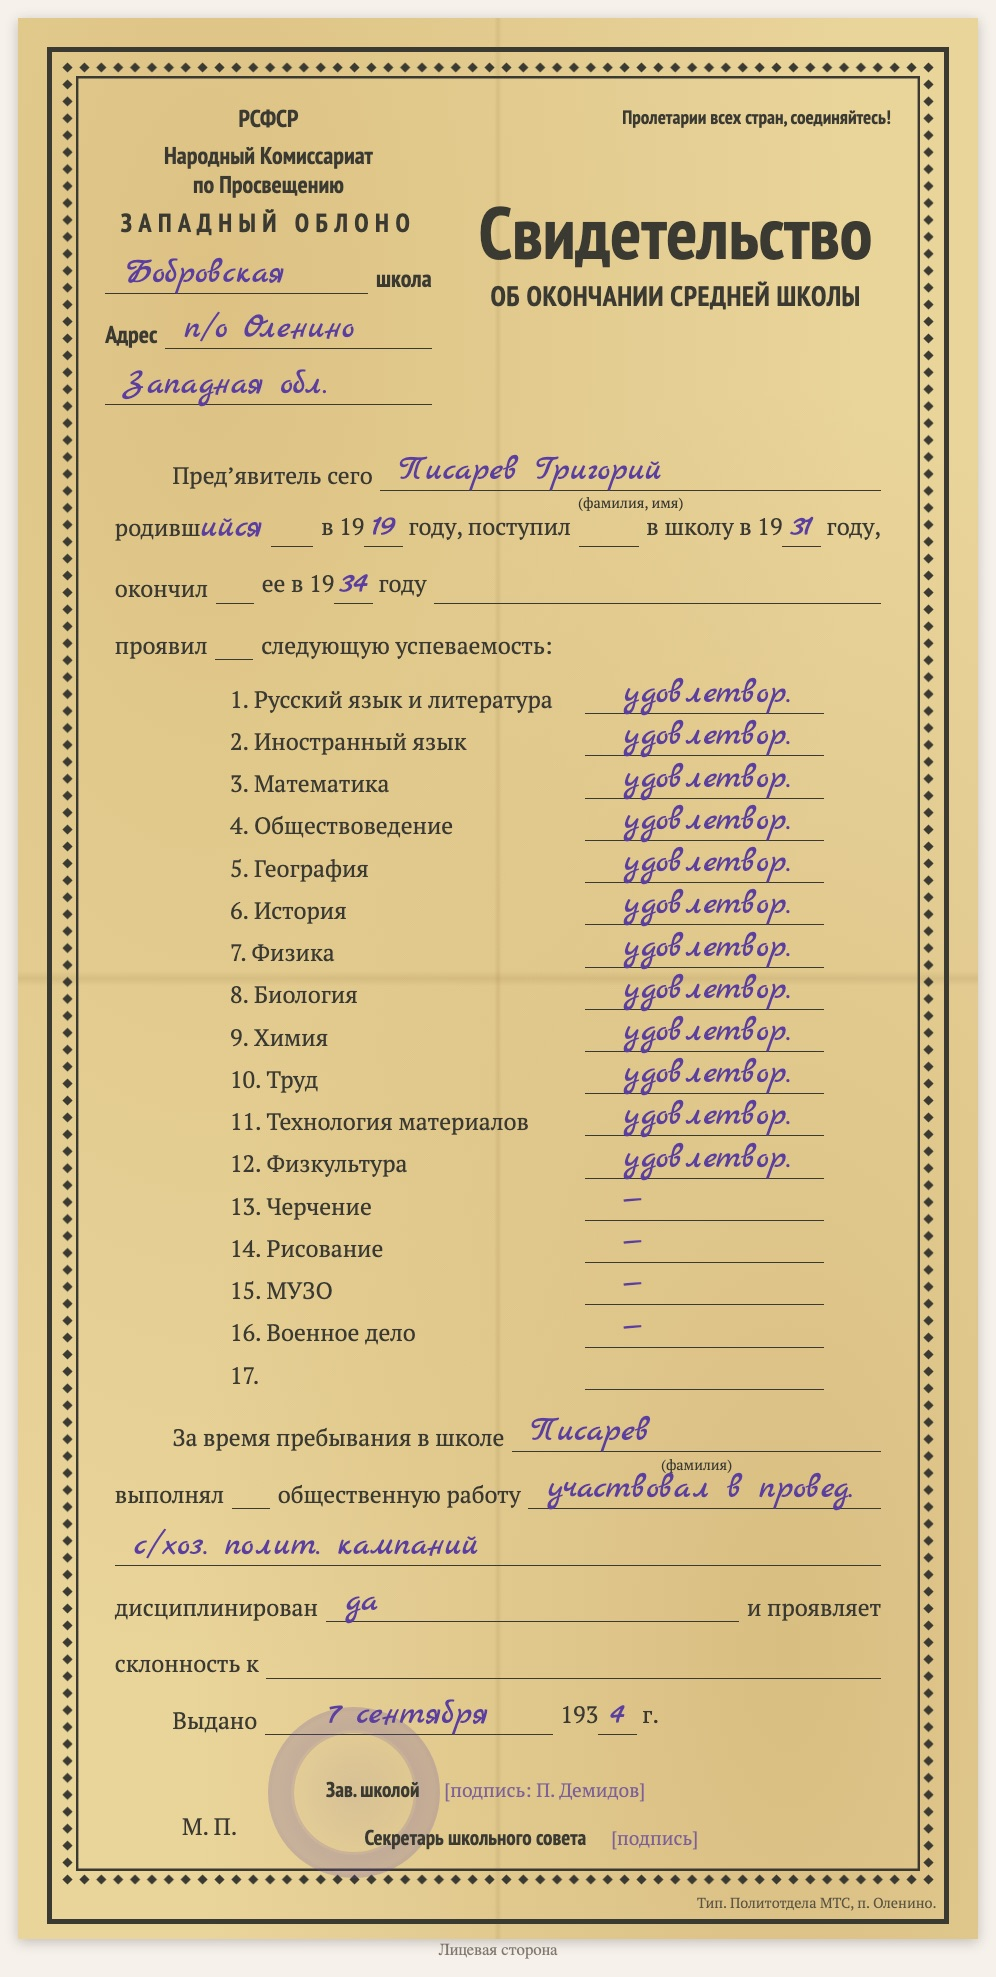
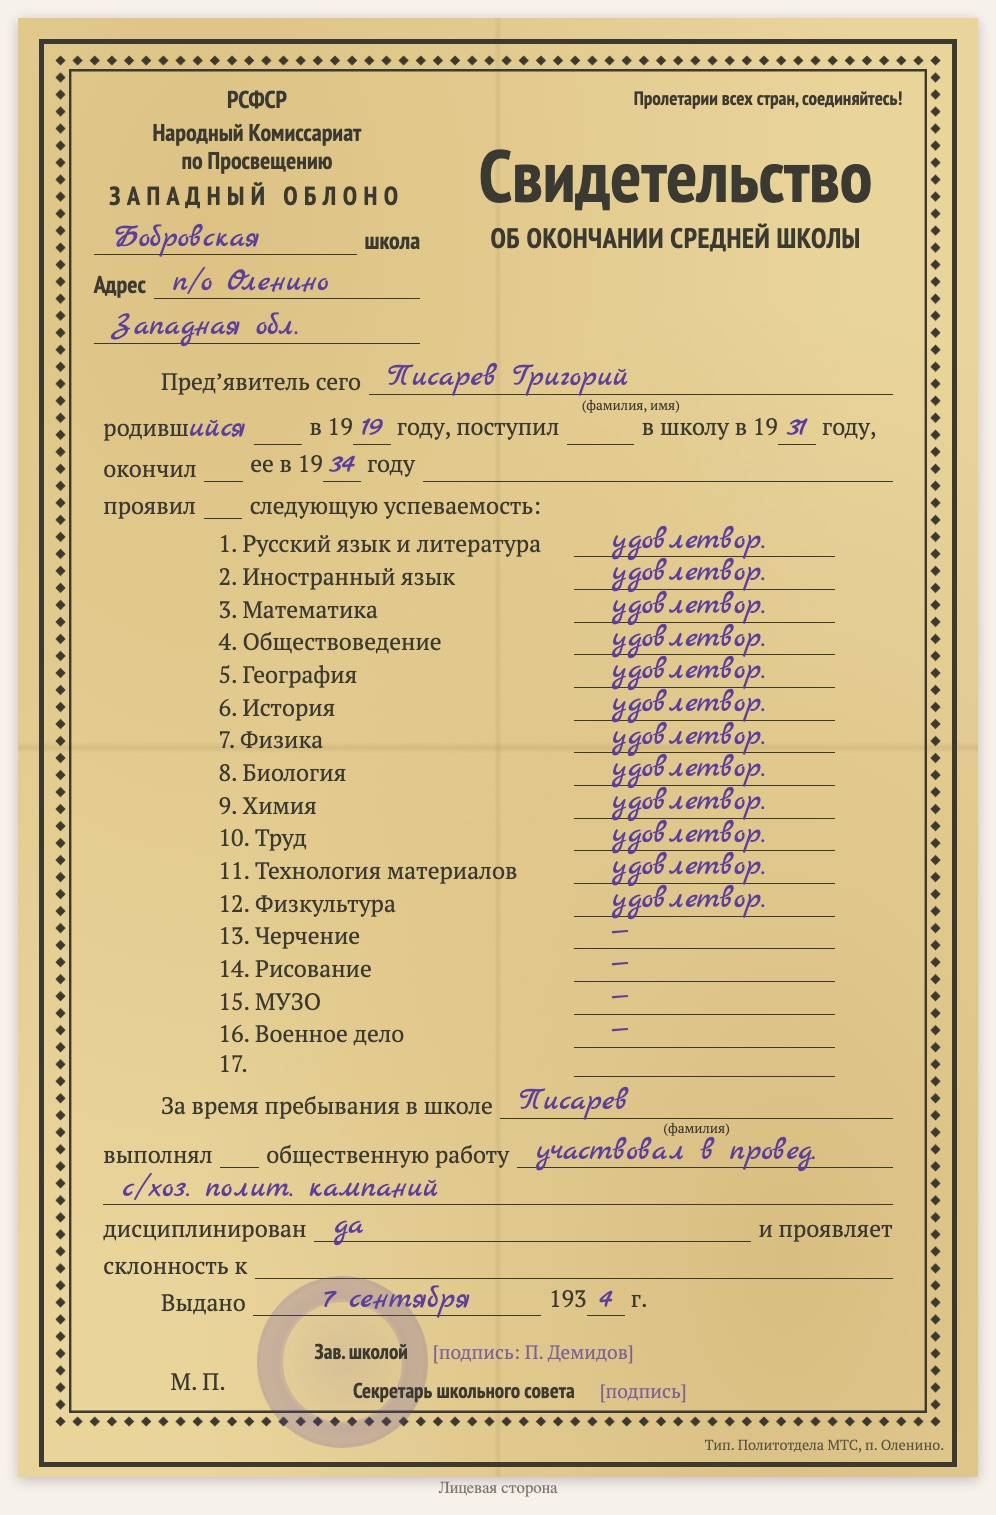
add documents examples

Changed region(s): [[0.0311, 0.0, 0.996, 0.9927], [0.5914, 0.3413, 0.8092, 0.6825]]

diff --git a/replica-school-certificate-1930s/assets/replica.css b/replica-school-certificate-1930s/assets/replica.css
@@ -441,3 +441,31 @@
   --doc-paper-line: #5c5434;
   --doc-ink-pen: #9cc0f2;
 }
+
+/* ---- compact, A4 proportions ---- */
+/* D1009: лист в пропорциях A4 (чуть длиннее, ≈ 1 : 1,5) — строки бланка плотнее. */
+.md-typeset .replica--school .replica__sheet { padding: 2.2cqw 2.2cqw 1cqw; }
+.md-typeset .replica--school .rp-sborder { padding: .6cqw; }
+.md-typeset .replica--school .rp-shead { padding: 1.2cqw 2cqw 0; }
+.md-typeset .replica--school .rp-sleft p + p { margin-top: .4cqw; }
+.md-typeset .replica--school .rp-sleft .rp-sl { min-height: 4.2cqw; }
+.md-typeset .replica--school .rp-stitle { margin-top: 3cqw; }
+.md-typeset .replica--school .rp-sbody { padding: 1.5cqw 3cqw .5cqw; line-height: 1.15; }
+.md-typeset .replica--school .rp-sl { min-height: 3.5cqw; }
+.md-typeset .replica--school .rp-sbody > .rp-sl { margin-top: .35cqw; }
+.md-typeset .replica--school .rp-sl:has(.rp-under) { margin-bottom: 1.7cqw; }
+.md-typeset .replica--school .rp-subj { margin: .6cqw 6cqw .8cqw 12cqw; }
+.md-typeset .replica--school .rp-subj p { min-height: 2.75cqw; }
+.md-typeset .replica--school .rp-subj p:last-child { min-height: 3.1cqw; }
+.md-typeset .replica--school .rp-h { font-size: 3.3cqw; line-height: 1; }
+.md-typeset .replica--school .rp-under { bottom: -1.9cqw; font-size: 1.4cqw; }
+.md-typeset .replica--school .rp-sfoot { margin-top: 1cqw; }
+.md-typeset .replica--school .rp-sseal { padding-top: 3.5cqw; }
+.md-typeset .replica--school .rp-ssign p { margin-top: 1.2cqw; }
+
+/* Таблицы в тексте на жёлтом листе — без лишней высоты строк. */
+.md-typeset .doc-paper-yellow blockquote table :is(th, td) {
+  padding: .25em .9em;
+  line-height: 1.35;
+}
+

diff --git a/genealogy-biography/SKILL.md b/genealogy-biography/SKILL.md
@@ -331,8 +331,12 @@ accessed: "<today, YYYY-MM-DD>"
   `_ocr/` folders of the Peasant Land Bank scans) is a search aid only: never quote it —
   read the passage on the scan and label it «прочтение скана». If you add a new kind of
   label, add it to «Откуда взяты цитаты» too.
-  The label line is always **bold** (`**Текст записи (прочтение скана):**`) and stands on its
-  own line right before the quote or list. Every block of quoted or retold text on a source
+  In the label only the term from «Откуда взяты цитаты» is **bold**, not the whole line:
+  `Текст записи (**прочтение скана**):`, `Текст (**расшифровка составителя**):`,
+  `Текст записи (**распознавание Яндекс Архива**):`, `**Текст недоступен:**`; other words
+  in the brackets stay plain (`Текст свидетельства (**прочтение скана**; вписанное от руки
+  выделено курсивом, сомнительное отмечено «[?]»):`). The label stands on its own line
+  right before the quote or list. Every block of quoted or retold text on a source
   page gets its own label, even when it is a list rather than a table. If a page is based on
   a search through Yandex OCR (or any machine text), say so explicitly and in bold
   («**по распознаванию Яндекс Архива**»): which parts were only searched by OCR, which were

diff --git a/replica-marriage-certificate-1940s/SKILL.md b/replica-marriage-certificate-1940s/SKILL.md
@@ -62,8 +62,8 @@ Follow the shared steps below; the form-specific part is above.
    - The sentence «Ниже — не скан, а копия, набранная по образцу бланка: …», saying what
      is not reproduced (signatures, coat of arms) and how seals are shown.
    - The replica HTML (copy the block from the example page and refill it).
-   - The label line on its own, only the origin of the text in bold: `Текст свидетельства
-     (**прочтение составителем сайта по скану**; вписанное от руки выделено курсивом,
+   - The label line on its own, only the term from «Откуда взяты цитаты» in bold:
+     `Текст свидетельства (**прочтение скана**; вписанное от руки выделено курсивом,
      неразборчивое отмечено «[…]»):`
    - The transcript as a quote: printed text plain, everything handwritten in `*italic*`.
      The `paper:` field puts the quote on coloured paper and shows the italics in blue

diff --git a/replica-birth-certificate-1936/SKILL.md b/replica-birth-certificate-1936/SKILL.md
@@ -68,8 +68,8 @@ Follow the shared steps below; the form-specific part is above.
    - The sentence «Ниже — не скан, а копия, набранная по образцу бланка: …», saying what
      is not reproduced (signatures, coat of arms) and how seals are shown.
    - The replica HTML (copy the block from the example page and refill it).
-   - The label line on its own, only the origin of the text in bold: `Текст свидетельства
-     (**прочтение составителем сайта по скану**; вписанное от руки выделено курсивом,
+   - The label line on its own, only the term from «Откуда взяты цитаты» in bold:
+     `Текст свидетельства (**прочтение скана**; вписанное от руки выделено курсивом,
      сомнительное отмечено «[?]»):`
    - The transcript as a quote: printed text plain, everything handwritten in `*italic*`.
      The `paper:` field puts the quote on coloured paper and shows the italics in blue

diff --git a/replica-birth-certificate-1940s/SKILL.md b/replica-birth-certificate-1940s/SKILL.md
@@ -64,8 +64,8 @@ Follow the shared steps below; the form-specific part is above.
    - The sentence «Ниже — не скан, а копия, набранная по образцу бланка: …», saying what
      is not reproduced (signatures, coat of arms) and how seals are shown.
    - The replica HTML (copy the block from the example page and refill it).
-   - The label line on its own, only the origin of the text in bold: `Текст свидетельства
-     (**прочтение составителем сайта по скану**; вписанное от руки выделено курсивом,
+   - The label line on its own, only the term from «Откуда взяты цитаты» in bold:
+     `Текст свидетельства (**прочтение скана**; вписанное от руки выделено курсивом,
      сомнительное отмечено «[?]»):`
    - The transcript as a quote: printed text plain, everything handwritten in `*italic*`.
      The `paper:` field puts the quote on coloured paper and shows the italics in blue

diff --git a/replica-school-certificate-1930s/SKILL.md b/replica-school-certificate-1930s/SKILL.md
@@ -72,8 +72,8 @@ Follow the shared steps below; the form-specific part is above.
    - The sentence «Ниже — не скан, а копия, набранная по образцу бланка: …», saying what
      is not reproduced (signatures) and how seals are shown.
    - The replica HTML (copy the block from the example page and refill it).
-   - The label line on its own, only the origin of the text in bold: `Текст свидетельства
-     (**прочтение составителем сайта по скану**; вписанное от руки выделено курсивом,
+   - The label line on its own, only the term from «Откуда взяты цитаты» in bold:
+     `Текст свидетельства (**прочтение скана**; вписанное от руки выделено курсивом,
      сомнительное отмечено «[?]»):`
    - The transcript as a quote: printed text plain, everything handwritten in `*italic*`.
      The `paper:` field puts the quote on coloured paper and shows the italics in blue

diff --git a/replica-birth-certificate-1940s/assets/example-D1001.md b/replica-birth-certificate-1940s/assets/example-D1001.md
@@ -12,7 +12,6 @@ related_people:
   - P1007
   - P1080
 accessed: "2026-10-17"
-verified: "2026-11-02"
 ---
 
 # 1942 Свидетельство о рождении Вал. Гр. Писарева, РТ № 952045 (D1001)
@@ -73,7 +72,7 @@ verified: "2026-11-02"
 <p class="replica__note">Внутренняя сторона</p>
 </div>
 
-Текст свидетельства (**прочтение составителем сайта по скану**; вписанное от руки выделено курсивом, сомнительное отмечено «[?]»):
+Текст свидетельства (**прочтение скана**; вписанное от руки выделено курсивом, сомнительное отмечено «[?]»):
 
 > **Обложка, передняя сторона:** Пролетарии всех стран, соединяйтесь! Народный комиссариат внутренних дел СССР. Отдел актов гражданского состояния. СВИДЕТЕЛЬСТВО О РОЖДЕНИИ
 >

diff --git a/replica-marriage-certificate-1940s/assets/example-D1008.md b/replica-marriage-certificate-1940s/assets/example-D1008.md
@@ -11,7 +11,6 @@ related_people:
   - P1005
   - P1006
 accessed: "2026-10-25"
-verified: "2026-11-02"
 ---
 
 # 1945 Свидетельство о браке Пав. Ив. Давыдова и Люб. Ив. Почеревиной, № 15 (D1008)
@@ -72,7 +71,7 @@ verified: "2026-11-02"
 <p class="replica__note">Лицевая сторона</p>
 </div>
 
-Текст свидетельства (**прочтение составителем сайта по скану**; вписанное от руки выделено курсивом, неразборчивое отмечено «[…]»):
+Текст свидетельства (**прочтение скана**; вписанное от руки выделено курсивом, неразборчивое отмечено «[…]»):
 
 > НАРОДНЫЙ КОМИССАРИАТ ВНУТРЕННИХ ДЕЛ СССР<br>
 > Отдел актов гражданского состояния

diff --git a/replica-birth-certificate-1936/assets/example-D1000.md b/replica-birth-certificate-1936/assets/example-D1000.md
@@ -12,7 +12,6 @@ related_people:
   - P1019
   - P1018
 accessed: "2026-10-16"
-verified: "2026-11-02"
 ---
 
 # 1930-е Свидетельство о рождении Пав. Ив. Давыдова, № 88889 (повторное) (D1000)
@@ -75,7 +74,7 @@ verified: "2026-11-02"
 <p class="replica__note">Оборотная сторона</p>
 </div>
 
-Текст свидетельства (**прочтение составителем сайта по скану**; вписанное от руки выделено курсивом, сомнительное отмечено «[?]»):
+Текст свидетельства (**прочтение скана**; вписанное от руки выделено курсивом, сомнительное отмечено «[?]»):
 
 > ПРОЛЕТАРИИ ВСЕХ СТРАН, СОЕДИНЯЙТЕСЬ!<br>
 > НАРОДНЫЙ КОМИССАРИАТ ВНУТРЕННИХ ДЕЛ СССР<br>

diff --git a/replica-school-certificate-1930s/assets/example-D1009.md b/replica-school-certificate-1930s/assets/example-D1009.md
@@ -83,7 +83,7 @@ verified: "2026-11-02"
 <p class="replica__note">Лицевая сторона</p>
 </div>
 
-Текст свидетельства (**прочтение составителем сайта по скану**; вписанное от руки выделено курсивом, сомнительное отмечено «[?]»):
+Текст свидетельства (**прочтение скана**; вписанное от руки выделено курсивом, сомнительное отмечено «[?]»):
 
 > РСФСР. Народный Комиссариат по Просвещению. ЗАПАДНЫЙ ОБЛОНО. *Бобровская* школа. Адрес *п/о Оленино Западная обл.*
 >
